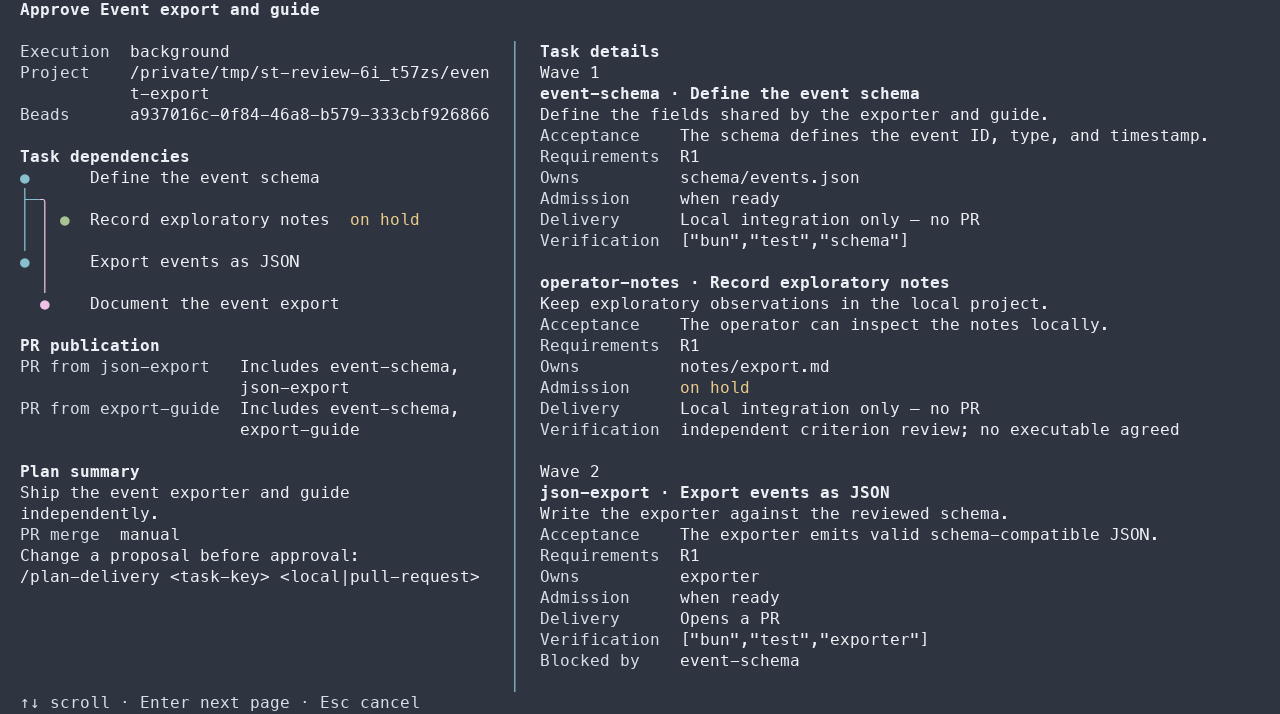
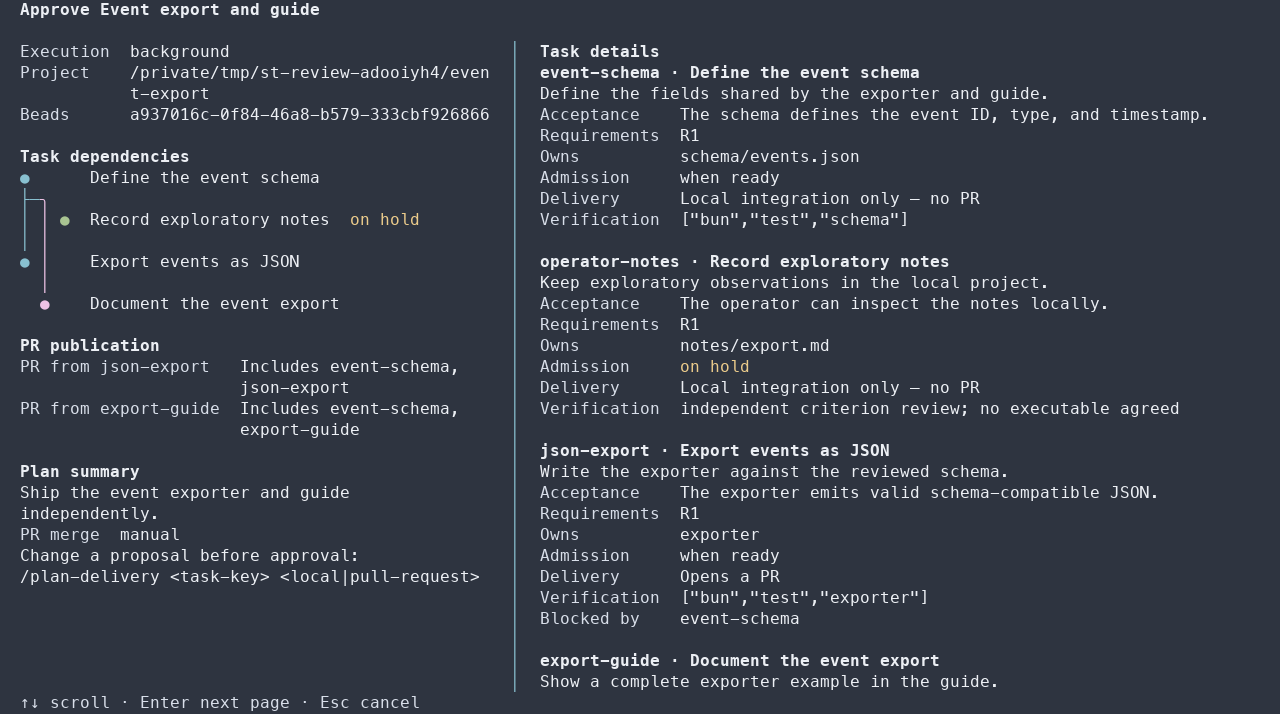
fix(plan): remove repeated wave labels
Let the Git graph convey dependency ordering beside the task details.

Detected-By: user

Changed region(s): [[0.4062, 0.0924, 0.9375, 0.986], [0.6562, 0.8319, 0.7188, 0.8627], [0.2812, 0.0924, 0.3438, 0.1232]]

diff --git a/plan-review.ts b/plan-review.ts
@@ -7,7 +7,6 @@ import {
 import { selectorText } from "@lanej/pi-components";
 import { taskReviewFields, TaskDelivery, type LeadDraft } from "./lead-plan.ts";
 import { planGraph, planGraphColor, renderGraphPrefix } from "./plan-graph.ts";
-import { taskWaves } from "./smart-plan-graph.ts";
 
 interface ReviewField {
   label: string;
@@ -122,19 +121,7 @@ export function renderPlanReview(
 
   const details: string[] = [];
   if (graph.length > 0) details.push(...section("Task details", detailsWidth));
-  const waves = taskWaves(draft.tasks);
-  let displayedWave: number | undefined;
   for (const { task } of graph) {
-    const wave = waves.get(task.key);
-    if (wave !== undefined && wave !== displayedWave) {
-      details.push(
-        ...wrapTextWithAnsi(
-          theme.fg("accent", `Wave ${String(wave)}`),
-          detailsWidth,
-        ),
-      );
-      displayedWave = wave;
-    }
     const heading = `${task.key} · ${oneLine(task.title)}`;
     const fields: ReviewField[] = taskReviewFields(task).map(
       ({ label, value }) => ({
